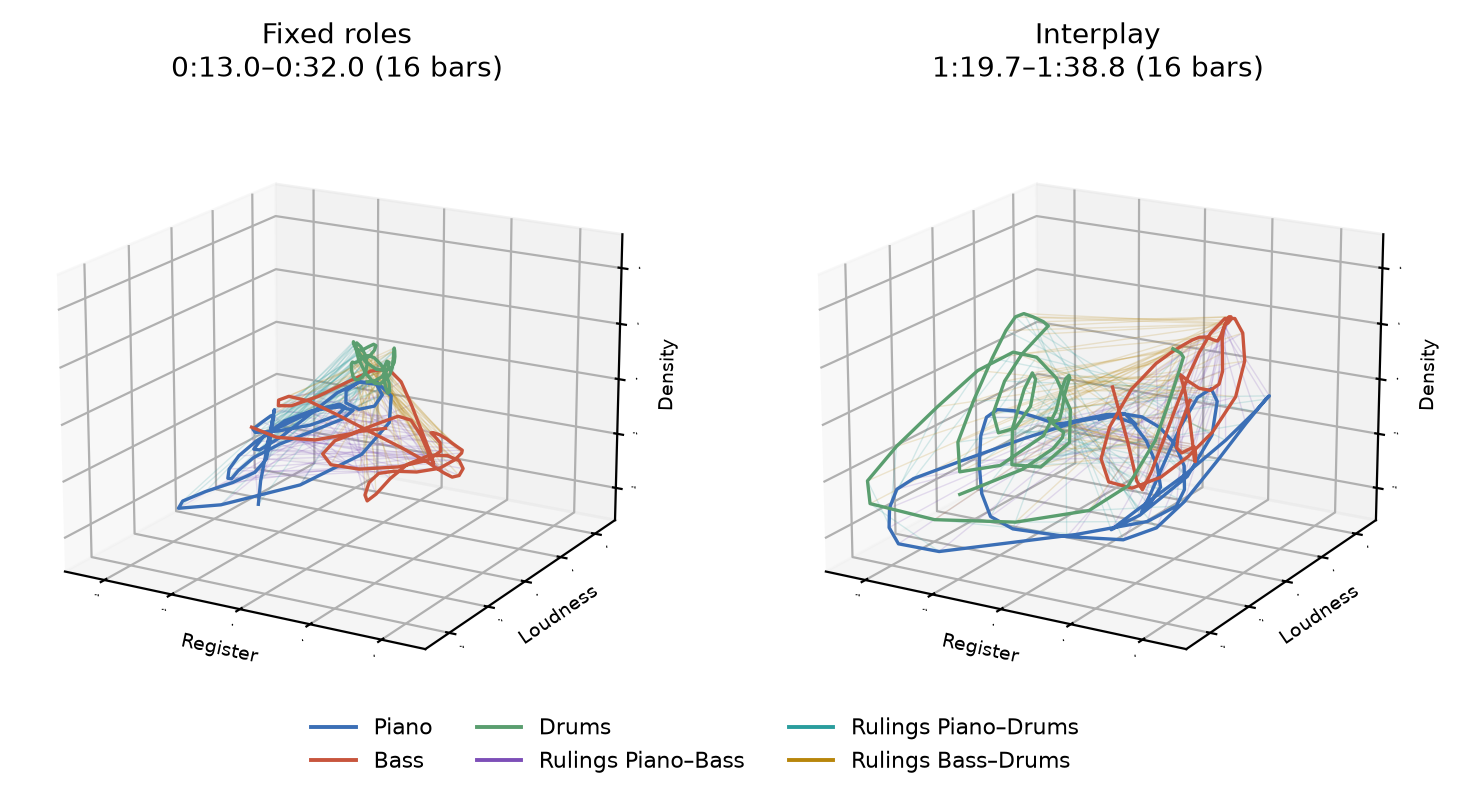
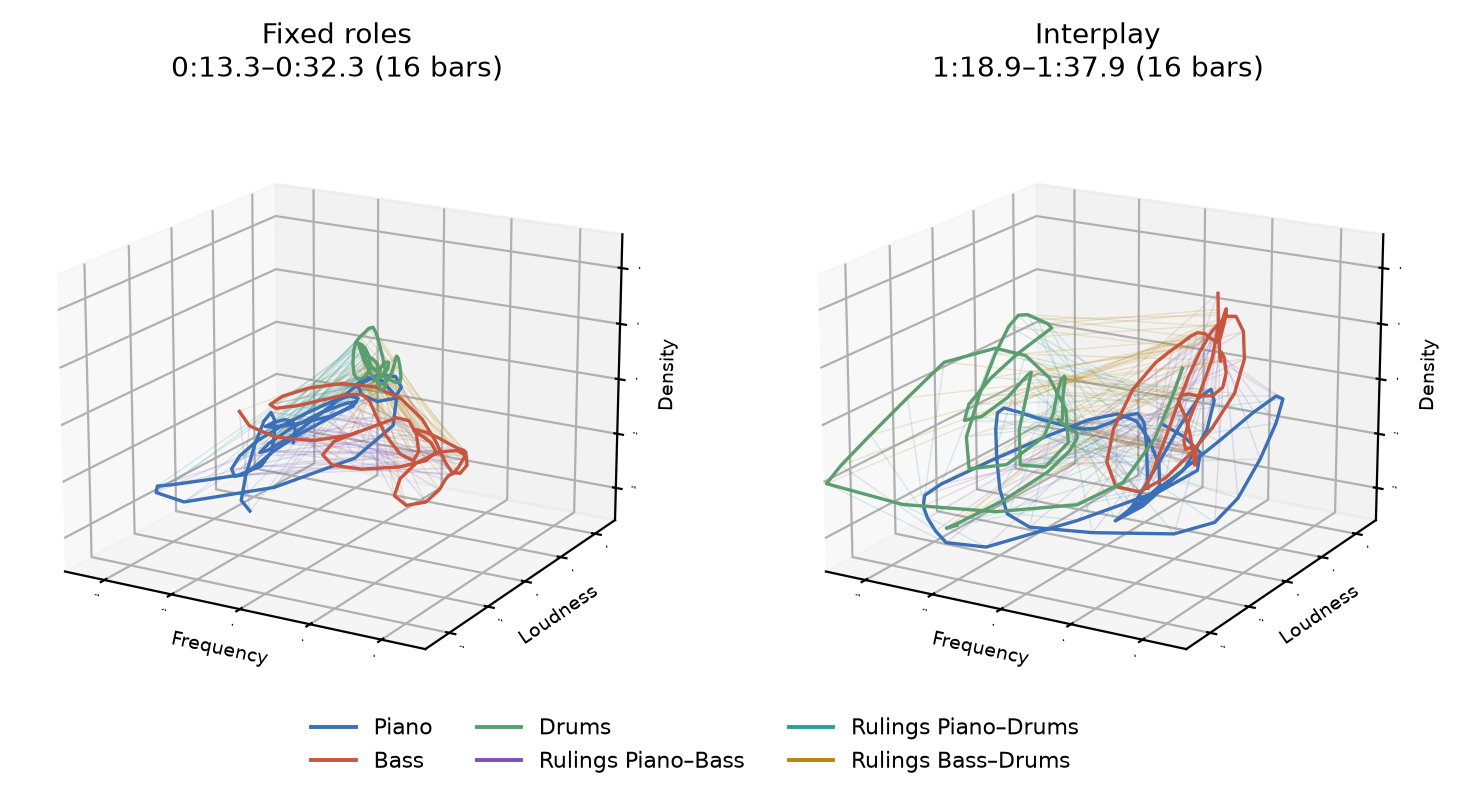
feat: add screen-space distribution figure and label the frequency axis
Fig. 2 shows the probability density of each player's beats in the
screen space for both sections; the ruled surfaces become Fig. 3.
The register axis is now labelled frequency, as in the report.

diff --git a/interplay/figures.py b/interplay/figures.py
@@ -1,7 +1,9 @@
-"""Step 6: the report's figures (§3.4), the middle 16 bars of each section.
+"""Step 6: the report's figures (§3.4).
 
 Figure 1: the three players' paths in the screen space.
-Figure 2: the ruled surface of each pair, drawn as a sheet.
+Figure 2: the probability density of each player's beats in the screen space, whole sections.
+Figure 3: the ruled surface of each pair, drawn as a sheet.
+Figures 1 and 3 show the middle 16 bars of each section; Figure 2 shows the whole sections.
 """
 
 import matplotlib
@@ -10,12 +12,12 @@ matplotlib.use("Agg")
 import matplotlib.pyplot as plt
 import numpy as np
 import pandas as pd
-from matplotlib.colors import LightSource, to_rgb
+from matplotlib.colors import LightSource, LinearSegmentedColormap, to_rgb
 from mpl_toolkits.mplot3d.art3d import Poly3DCollection
 
 from .config import BEATS_PER_BAR, DATA_DIR, FIG_DIR, INSTRUMENTS, SECTIONS, TITLES, section_of
 from .ruled import PAIRS
-from .screen_space import positions, positions_at
+from .screen_space import AXES, positions, positions_at
 
 COLORS = {"piano": "#3b6fb6", "bass": "#c8553d", "drums": "#5a9e6f"}
 PAIR_COLORS = {
@@ -47,7 +49,7 @@ def shown_span(table: pd.DataFrame, section: str) -> tuple[float, float]:
 def style_axes(ax, fontsize: int = 7, labelpad: int = -10) -> None:
     for setter in (ax.set_xlim, ax.set_ylim, ax.set_zlim):
         setter(-LIMIT, LIMIT)
-    ax.set_xlabel("Register", fontsize=fontsize, labelpad=labelpad)
+    ax.set_xlabel("Frequency", fontsize=fontsize, labelpad=labelpad)
     ax.set_ylabel("Loudness", fontsize=fontsize, labelpad=labelpad)
     ax.set_zlabel("Density", fontsize=fontsize, labelpad=labelpad)
     ax.tick_params(labelsize=0, pad=-4)
@@ -155,11 +157,116 @@ def fig_ruled_surfaces(table: pd.DataFrame) -> None:
         bbox_to_anchor=(0.5, 0.06),
     )
     fig.subplots_adjust(wspace=0.02, hspace=0.12)
-    fig.savefig(FIG_DIR / "fig2_ruled_surfaces.png", dpi=200, bbox_inches="tight")
+    fig.savefig(FIG_DIR / "fig3_ruled_surfaces.png", dpi=200, bbox_inches="tight")
+
+
+def kde(points: np.ndarray, bandwidth: np.ndarray, at: np.ndarray) -> np.ndarray:
+    """Gaussian kernel density (diagonal bandwidth) of `points` evaluated at `at`."""
+    d = (at[:, None, :] - points[None, :, :]) / bandwidth
+    norm = len(points) * (2 * np.pi) ** (len(bandwidth) / 2) * bandwidth.prod()
+    return np.exp(-0.5 * (d**2).sum(axis=2)).sum(axis=1) / norm
+
+
+def density_change(table: pd.DataFrame, name: str, section: str) -> float:
+    """Mean absolute change of density between consecutive beats within a section."""
+    within = table.section.eq(section) & table.section.shift(1).eq(section)
+    return float(table[f"{name}_density"].diff()[within].abs().mean())
+
+
+def fig_distribution(table: pd.DataFrame) -> pd.DataFrame:
+    """Probability density of each player's beats in each section, in the screen space.
+
+    Beats are points coloured by the 3D density; the walls show the 2D marginal densities.
+    Bandwidth (Scott's rule) comes from both sections pooled, and the colour scale is shared
+    within each player.
+    """
+    fig = plt.figure(figsize=(10, 6.6))
+    grid = np.linspace(-LIMIT, LIMIT, 60)
+    gx, gy = np.meshgrid(grid, grid)
+    plane = np.column_stack([gx.ravel(), gy.ravel()])
+    # wall position and the two axes it shows, for each pair of axes
+    walls = {(0, 1): ("z", -LIMIT), (0, 2): ("y", LIMIT), (1, 2): ("x", -LIMIT)}
+    rows = []
+    for col, name in enumerate(INSTRUMENTS):
+        pts = {s: positions(table[table.section == s], name) for s in SECTIONS}
+        pooled = np.concatenate(list(pts.values()))
+        bandwidth = pooled.std(axis=0, ddof=1) * len(pooled) ** (-1 / 7)
+        heights = {s: kde(p, bandwidth, p) for s, p in pts.items()}
+        top = max(h.max() for h in heights.values())
+        cmap = LinearSegmentedColormap.from_list(name, ["#dcdcdc", COLORS[name], "#1a1a1a"])
+        for row, s in enumerate(SECTIONS):
+            p = pts[s]
+            ax = fig.add_subplot(
+                len(SECTIONS), len(INSTRUMENTS), row * len(INSTRUMENTS) + col + 1, projection="3d"
+            )
+            ax.computed_zorder = False
+            for (i, j), (zdir, offset) in walls.items():
+                z = kde(p[:, [i, j]], bandwidth[[i, j]], plane).reshape(gx.shape)
+                if zdir == "z":
+                    args = (gx, gy, z)
+                elif zdir == "y":
+                    args = (gx, z, gy)
+                else:
+                    args = (z, gx, gy)
+                ax.contourf(
+                    *args,
+                    zdir=zdir,
+                    offset=offset,
+                    levels=np.linspace(z.max() * 0.08, z.max(), 7),
+                    cmap=cmap,
+                    alpha=0.55,
+                    zorder=0,
+                )
+            q = np.clip(p, -LIMIT, LIMIT)
+            order = np.argsort(heights[s])
+            ax.scatter(
+                *q[order].T,
+                c=heights[s][order],
+                cmap=cmap,
+                vmin=0,
+                vmax=top,
+                s=7,
+                depthshade=False,
+                linewidths=0,
+                zorder=2,
+            )
+            style_axes(ax, fontsize=7, labelpad=-10)
+            if row == 0:
+                ax.set_title(name.capitalize(), fontsize=10)
+            if col == 0:
+                ax.text2D(
+                    -0.08,
+                    0.5,
+                    TITLES[s],
+                    transform=ax.transAxes,
+                    rotation=90,
+                    ha="center",
+                    va="center",
+                    fontsize=10,
+                    weight="bold",
+                )
+            cov = np.cov(p.T)
+            rows.append(
+                {
+                    "player": name,
+                    "section": s,
+                    "n": len(p),
+                    **{f"sd_{a}": np.sqrt(cov[k, k]) for k, a in enumerate(AXES)},
+                    "spread": np.linalg.det(cov) ** (1 / 6),
+                    "density_change": density_change(table, name, s),
+                }
+            )
+    fig.subplots_adjust(wspace=0.02, hspace=0.08)
+    fig.savefig(FIG_DIR / "fig2_distribution.png", dpi=200, bbox_inches="tight")
+    return pd.DataFrame(rows)
 
 
 def run() -> None:
     FIG_DIR.mkdir(exist_ok=True)
     table = pd.read_csv(DATA_DIR / "ruled.csv", index_col="beat")
     fig_trajectories(table)
+    spread = fig_distribution(table)
+    spread.to_csv(DATA_DIR / "spread.csv", index=False)
+    with pd.option_context("display.width", 120, "display.precision", 2):
+        print(spread.to_string(index=False))
     fig_ruled_surfaces(table)

diff --git a/interplay/__init__.py b/interplay/__init__.py
@@ -3,9 +3,9 @@
 1. `separate`: piano, bass and drums from the recording (Demucs)
 2. `transcribe`: piano notes
 3. `grains`: sound events of each player, and the beat grid (`beats`)
-4. `screen_space`: each player per beat as a point (register, loudness, density)
+4. `screen_space`: each player per beat as a point (frequency, loudness, density)
 5. `ruled`: rulings between pairs of players and their twist
-6. `figures`: Fig. 1 and Fig. 2
+6. `figures`: Fig. 1 to Fig. 3
 
 `animation` draws the ruled surfaces over the whole track (not in the report). Paths, parts,
 sections and parameters are in `config`.

diff --git a/interplay/screen_space.py b/interplay/screen_space.py
@@ -1,6 +1,6 @@
-"""Step 4: each player as a point in the screen space (register, loudness, density).
+"""Step 4: each player as a point in the screen space (frequency, loudness, density).
 
-Grains are smoothed with a Gaussian window (sigma 2 beats). Density is grains per beat; register
+Grains are smoothed with a Gaussian window (sigma 2 beats). Density is grains per beat; frequency
 and loudness are the window-weighted means, pulled to the player's mean when the player is
 silent. Each axis is z-scored per player, so the origin is that player's usual state.
 """

diff --git a/interplay/animation.py b/interplay/animation.py
@@ -31,7 +31,7 @@ PAIR_COLORS = {
     ("bass", "drums"): "#ffd166",
 }
 SHADES = {"fixed": "#4a4a4a", "interplay": "#6b5410"}
-AXIS_LABELS = {"frequency": "Register / brightness", "intensity": "Loudness", "density": "Density"}
+AXIS_LABELS = {"frequency": "Frequency", "intensity": "Loudness", "density": "Density"}
 MEMORY = 32
 GIF_STEP = 3
 GIF_FPS = 10

diff --git a/README.md b/README.md
@@ -10,7 +10,7 @@ Target recording: Bill Evans Trio, "Autumn Leaves", *Portrait in Jazz* (Riversid
 
 The analysis adapts two ideas of Iannis Xenakis from *Formalized Music* to a recorded performance:
 
-- **Screen.** Xenakis writes any sound as a function s(F, G, D, t) of frequency, intensity, density and time, and places grains of sound within each time slice Δt on a frequency × intensity grid (the screen). Here each player at each beat is one point in a space of register, loudness and density, restoring the density axis; the beat plays the role of Δt.
+- **Screen.** Xenakis writes any sound as a function s(F, G, D, t) of frequency, intensity, density and time, and places grains of sound within each time slice Δt on a frequency × intensity grid (the screen). Here each player at each beat is one point in a space of frequency, loudness and density, restoring the density axis; the beat plays the role of Δt.
 - **Ruled surface.** In *Metastaseis* (1953–54) string glissandi are straight lines on the pitch–time plane, and their bundle forms a ruled surface, a shape Xenakis later used for the Philips Pavilion (1958). Here the line joins two players at each beat and is drawn in the screen space rather than along a time axis. Players moving alike give a flat surface; one moving and the other following late twists it.
 
 ## Requirements
@@ -39,7 +39,7 @@ uv run python -m interplay figures      # one step, from the files the previous 
 | `grains` | beats per part (`beats.py`) and note/onset events | `data/beats.csv`, `data/grains_*.csv` |
 | `screen-space` | per-beat positions of each player | `data/screen_space.csv` |
 | `ruled` | twist of each pair | `data/ruled.csv` |
-| `figures` | Fig. 1 and Fig. 2 | `figures/fig1_trajectories.png`, `figures/fig2_ruled_surfaces.png` |
+| `figures` | Fig. 1 to Fig. 3 | `figures/fig1_trajectories.png`, `figures/fig2_distribution.png`, `figures/fig3_ruled_surfaces.png` |
 | `animation` | ruled-surface GIF (not in the paper) | `figures/ruled.gif` |
 
 `transcribe` downloads the pretrained weights from Zenodo to `models/` and checks their SHA-256.
